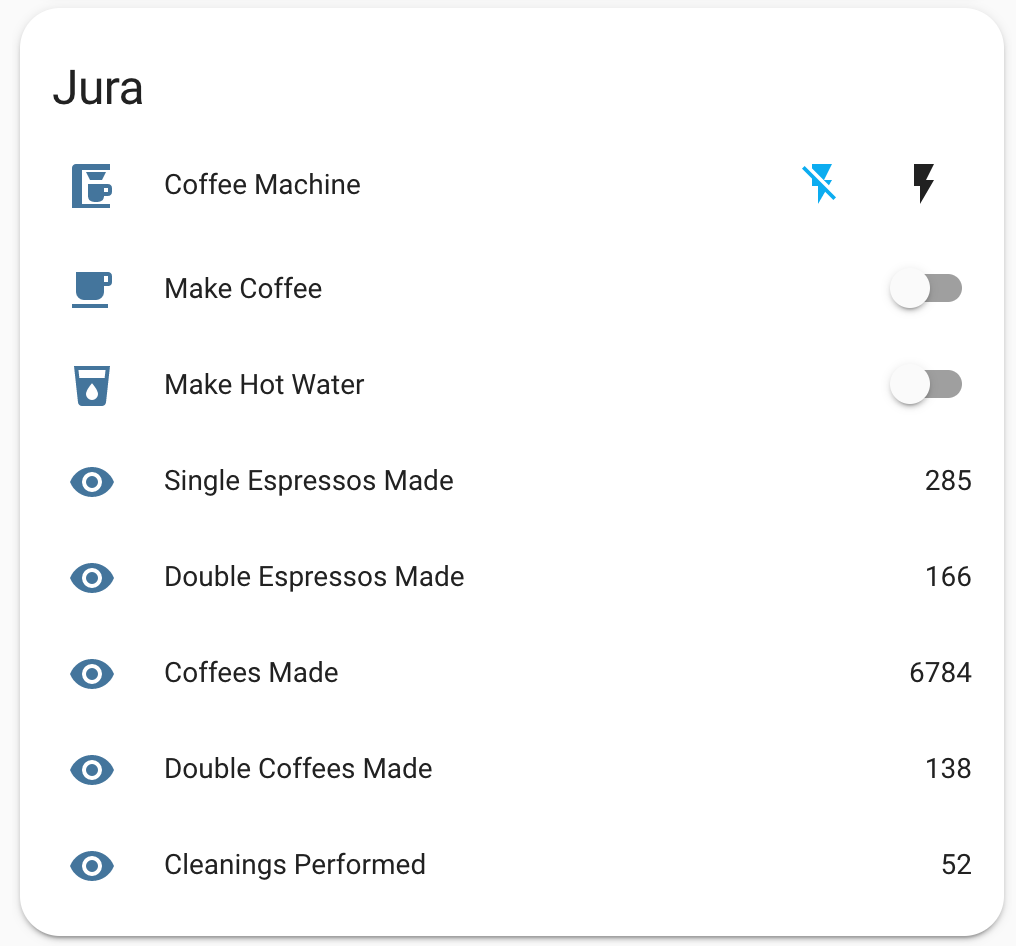
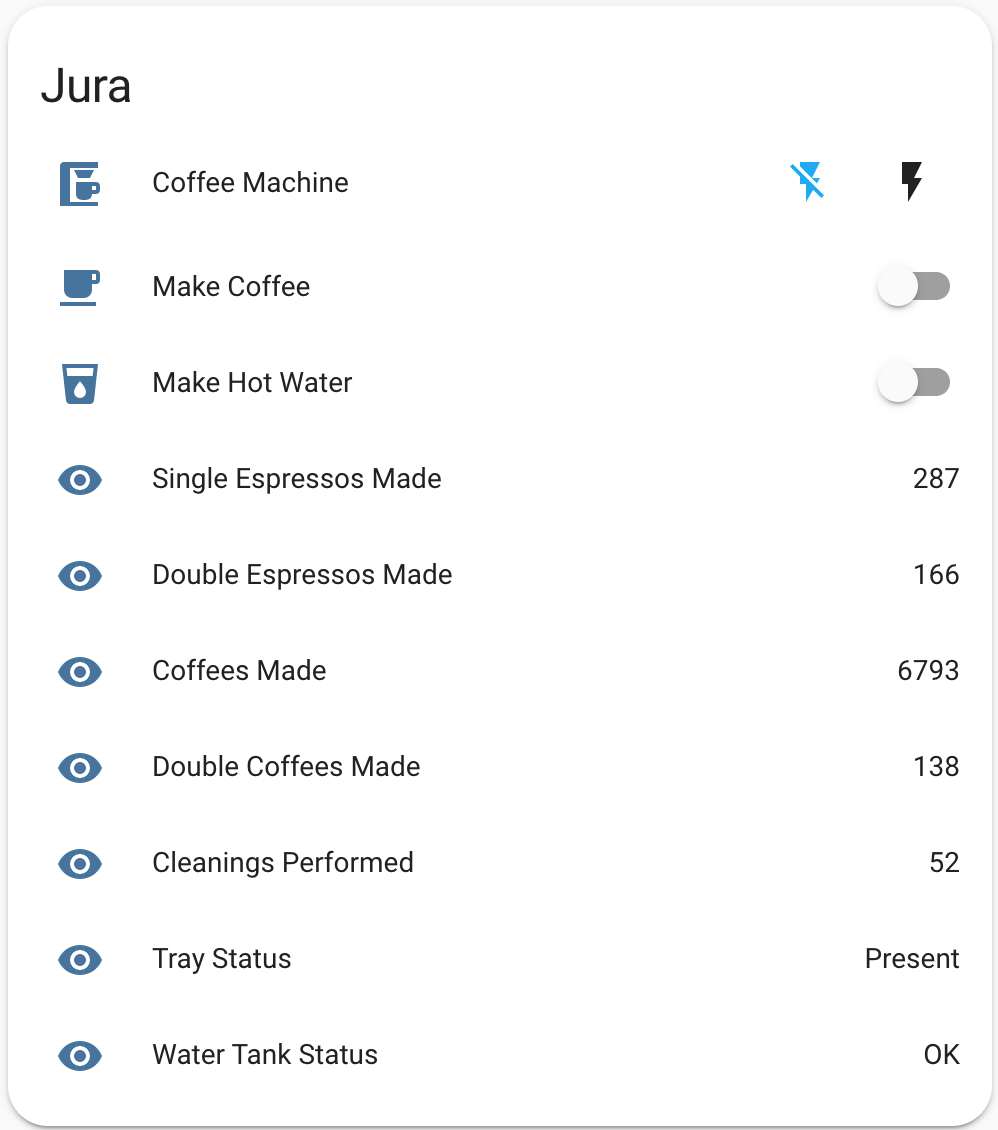
Add files via upload
- Reduce serial comms by making a single query for all counters (using RE:), instead of one query for each counter (RT:)
- Added tray and water tank status
- Updated HA image to include new status features

diff --git a/jura_coffee.h b/jura_coffee.h
@@ -6,11 +6,14 @@ class JuraCoffee : public PollingComponent, public UARTDevice {
  Sensor *xsensor3 {nullptr};
  Sensor *xsensor4 {nullptr};
  Sensor *xsensor5 {nullptr};
+ TextSensor *xsensor6 {nullptr};
+ TextSensor *xsensor7 {nullptr};
 
  public:
-  JuraCoffee(UARTComponent *parent, Sensor *sensor1, Sensor *sensor2, Sensor *sensor3, Sensor *sensor4, Sensor *sensor5) : UARTDevice(parent) , xsensor1(sensor1) , xsensor2(sensor2) , xsensor3(sensor3) , xsensor4(sensor4) , xsensor5(sensor5) {}
+  JuraCoffee(UARTComponent *parent, Sensor *sensor1, Sensor *sensor2, Sensor *sensor3, Sensor *sensor4, Sensor *sensor5, TextSensor *sensor6, TextSensor *sensor7) : UARTDevice(parent) , xsensor1(sensor1) , xsensor2(sensor2) , xsensor3(sensor3) , xsensor4(sensor4) , xsensor5(sensor5) , xsensor6(sensor6) , xsensor7(sensor7) {}
 
   long num_single_espresso, num_double_espresso, num_coffee, num_double_coffee, num_clean;
+  std::string tray_status, tank_status;
 
   // Jura communication function taken in entirety from cmd2jura.ino, found at https://github.com/hn/jura-coffee-machine
   String cmd2jura(String outbytes) {
@@ -55,45 +58,56 @@ class JuraCoffee : public PollingComponent, public UARTDevice {
   }
 
   void setup() override {
-    this->set_update_interval(600000); // 600 seconds (10 minutes)
+    this->set_update_interval(6000); // 600000 = 10 minutes // Now 6 seconds
   }
 
   void loop() override {
   }
 
   void update() override {
-    String result;
+    String result, hexString, substring;
+    byte hex_to_byte;
+    int trayBit, tankBit;
+
+    // Fetch our line of EEPROM
+    result = cmd2jura("RT:0000");
 
     // Get Single Espressos made
-    result = cmd2jura("RE:0000");
-    result.remove(0,3); // Strip first 3 characters of response, which in this case are "re:" (repeated back to us)
-    num_single_espresso = strtol(result.c_str(),NULL,16);
+    substring = result.substring(3,7);
+    num_single_espresso = strtol(substring.c_str(),NULL,16);
 
     // Get Double Espressos made
-    result = cmd2jura("RE:0001");
-    result.remove(0,3);
-    num_double_espresso = strtol(result.c_str(),NULL,16);
+    substring = result.substring(7,11);
+    num_double_espresso = strtol(substring.c_str(),NULL,16);
 
     // Get Coffees made
-    result = cmd2jura("RE:0002");
-    result.remove(0,3);
-    num_coffee = strtol(result.c_str(),NULL,16);
+    substring = result.substring(11,15);
+    num_coffee = strtol(substring.c_str(),NULL,16);
 
     // Get Double Coffees made
-    result = cmd2jura("RE:0003");
-    result.remove(0,3);
-    num_double_coffee = strtol(result.c_str(),NULL,16);
+    substring = result.substring(15,19);
+    num_double_coffee = strtol(substring.c_str(),NULL,16);
 
     // Get Cleanings done
-    result = cmd2jura("RE:0008");
-    result.remove(0,3);
-    num_clean = strtol(result.c_str(),NULL,16);
+    substring = result.substring(35,39);
+    num_clean = strtol(substring.c_str(),NULL,16);
+
+    // Fetch status of Tray and Water Tank
+    result = cmd2jura("IC:");
+    hexString = result.substring(3,5);
+    hex_to_byte = strtol(hexString.c_str(),NULL,16);
+    trayBit = bitRead(hex_to_byte, 4);
+    tankBit = bitRead(hex_to_byte, 5);
+    if (trayBit == 1) { tray_status = "Missing"; } else { tray_status = "Present"; }
+    if (tankBit == 1) { tank_status = "Fill Tank"; } else { tank_status = "OK"; }
 
     if (xsensor1 != nullptr)   xsensor1->publish_state(num_single_espresso);
     if (xsensor2 != nullptr)   xsensor2->publish_state(num_double_espresso);
     if (xsensor3 != nullptr)   xsensor3->publish_state(num_coffee);
     if (xsensor4 != nullptr)   xsensor4->publish_state(num_double_coffee);
     if (xsensor5 != nullptr)   xsensor5->publish_state(num_clean);
+    if (xsensor6 != nullptr)   xsensor6->publish_state(tray_status);
+    if (xsensor7 != nullptr)   xsensor7->publish_state(tank_status);
 
   }
 };
